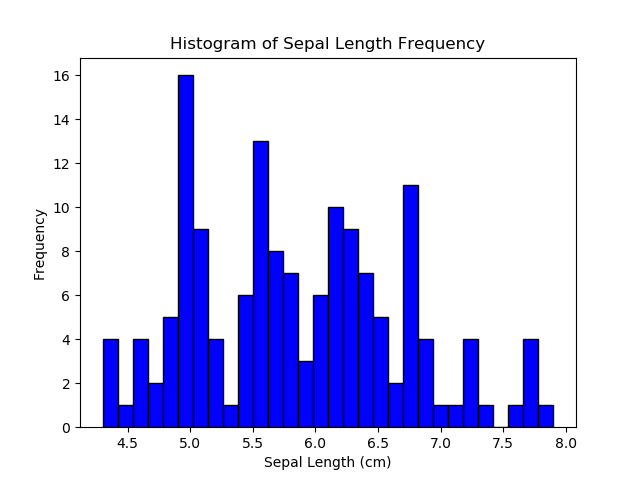
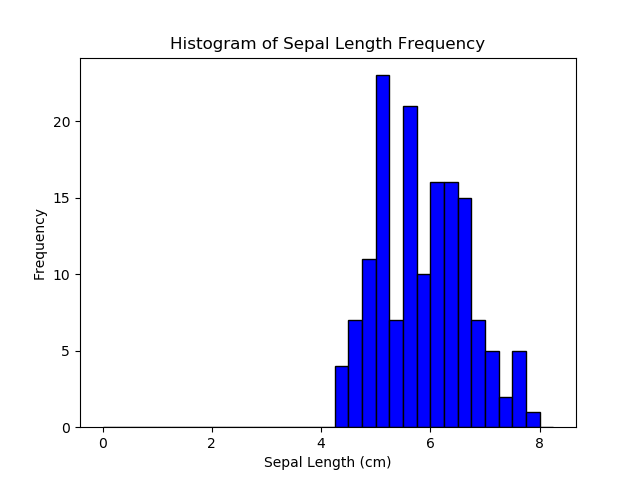
Previously mentioned bins logic is now applied to both Histogram FOR loops

diff --git a/irisAnalysis.py b/irisAnalysis.py
@@ -48,8 +48,10 @@ def nameFormat(name):
     return name
 
 for measurement in df.columns:
+    upper = df[measurement].max()
+    binsizes = np.arange(0, round(upper) + 0.5, 0.25)
     fig, ax = plt.subplots()
-    ax.hist(df[measurement], bins=30, facecolor = 'blue', edgecolor='black')
+    ax.hist(df[measurement], bins=binsizes, facecolor = 'blue', edgecolor='black')
     name = nameFormat(measurement)
     ax.set_xlabel(name + ' (cm)')
     ax.set_ylabel ("Frequency")
